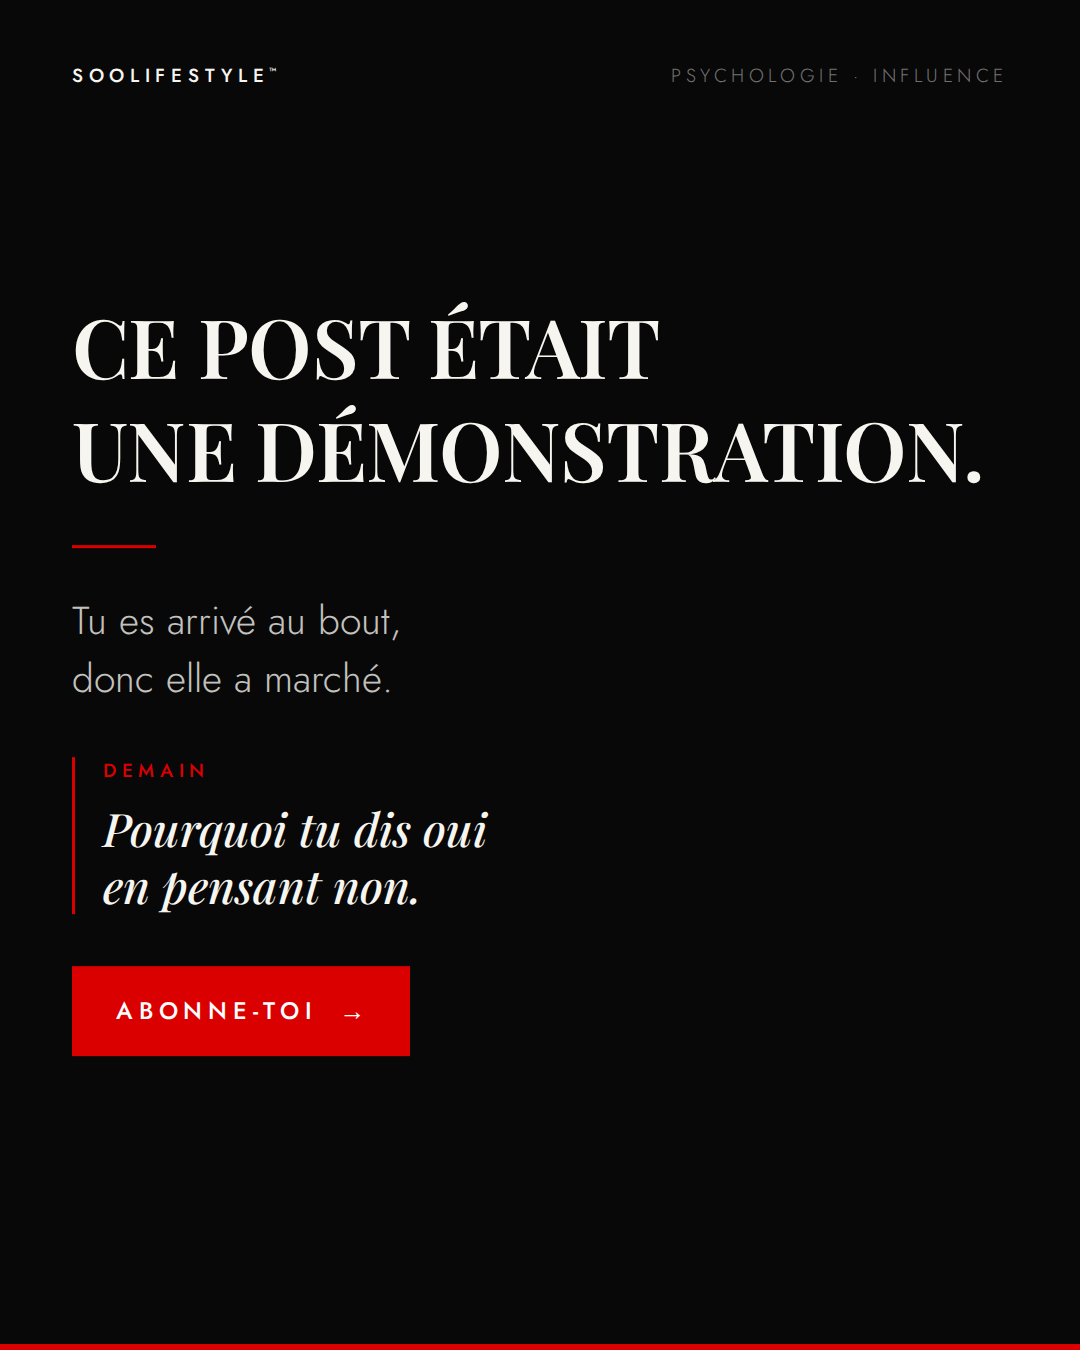
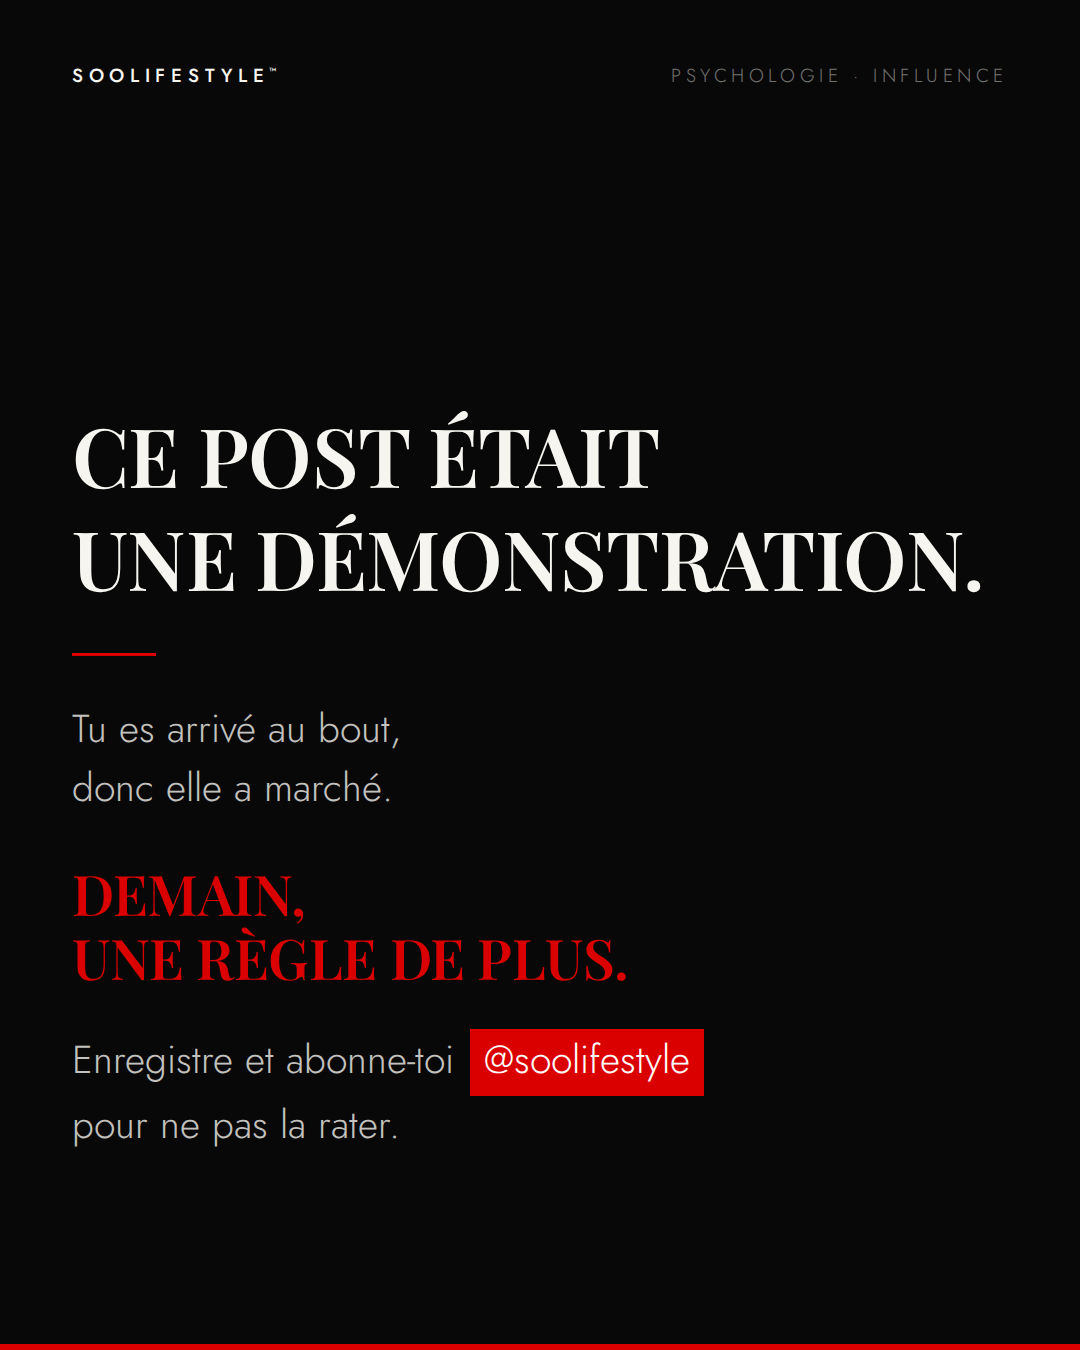
Interieur : horizon fixe, chiffre fantome, nouveau CTA
Forme. Trois defauts corriges :
- le bloc flottait au milieu avec du vide dessus et dessous. Il pose
  maintenant sur une ligne d'horizon identique d'une slide a l'autre :
  quand on swipe, le texte ne saute plus.
- l'interieur n'avait aucun ancrage a lui. Le haut, qui etait vide,
  porte le numero du mecanisme en filet rouge, coupe par le bord droit.
  La couverture a le debord, l'interieur a le chiffre.
- le chiffre est cale au-dessus du bloc, jamais sous le texte.

Slide finale : bloc DEMAIN retire, bouton retire. Le CTA demande deux
gestes, enregistrer et s'abonner, un bouton n'en porte qu'un.
La promesse passe en capitales rouges, l'action suit avec @soolifestyle
surligne — seule masse rouge de la ligne.

Claude-Session: https://claude.ai/code/session_01NxfN7rJ7DAKtxmihPtfgqw

Changed region(s): [[0.0611, 0.2178, 0.8861, 0.84], [0.3972, 0.2178, 0.6111, 0.28], [0.0611, 0.2178, 0.1528, 0.28]]

diff --git a/instagram/carrousel-le-miroir/da.js b/instagram/carrousel-le-miroir/da.js
@@ -95,19 +95,20 @@ const CSS = `${FONTS}
            font-size:56px; line-height:1.14; letter-spacing:-.008em;
            color:var(--red); margin-top:44px; }
 
-  /* ── demain : la vraie raison de s'abonner ── */
-  .demain{ margin-top:48px; padding-left:28px; border-left:3px solid var(--red); }
-  .demain i{ display:block; font-style:normal; font-family:'Sans',sans-serif; font-weight:500;
-             font-size:19px; letter-spacing:.3em; text-transform:uppercase; color:var(--red);
-             margin-bottom:16px; }
-  .demain span{ font-family:'Display',Georgia,serif; font-weight:500; font-style:italic;
-                font-size:46px; line-height:1.24; }
+  /* ── le chiffre fantôme : l'ancrage de l'intérieur.
+        En filet, coupé par le bord droit. Il dit où on en est
+        sans rien prendre à la lecture. ── */
+  .ghost{ position:absolute; z-index:0; right:-58px; top:86px;
+          font-family:'Display',Georgia,serif; font-weight:600; font-size:404px;
+          line-height:.78; letter-spacing:-.04em;
+          color:transparent; -webkit-text-stroke:2px var(--red); opacity:.30; }
 
-  .cta{ display:inline-flex; align-items:center; gap:22px; background:var(--red);
-        color:#fff; padding:26px 44px; margin-top:52px;
-        font-family:'Sans',sans-serif; font-weight:500; font-size:24px;
-        letter-spacing:.24em; text-transform:uppercase; }
-  .cta span{ font-size:26px; letter-spacing:0; }
+  /* ── l'horizon : le bloc ne flotte plus, il pose ── */
+  .wrap.bas{ top:auto; bottom:196px; transform:none; }
+
+  /* ── le compte : l'arobase surligné, pas un bouton ── */
+  .at{ display:inline-block; background:var(--red); color:#fff;
+       padding:2px 14px 6px; margin:0 4px; }
 `;
 
 // Playfair capitales : une lettre avance d'environ 0,60 em.

diff --git a/instagram/carrousel-le-miroir/rythmes.js b/instagram/carrousel-le-miroir/rythmes.js
@@ -10,13 +10,14 @@
 const DA = require('./da');
 
 const label = (s) => `<div class="label"><em>&mdash;</em>${s.label}</div>`;
+const ghost = (n) => `<div class="ghost">${String(n).padStart(2, '0')}</div>`;
 const body = (s) =>
   (s.body || []).map((p) => `<div class="body">${p.join('<br>')}</div>`).join('');
 
-module.exports = {
+const R = {
   // on pose le mécanisme et on l'explique
   pose: (s) => `
-    <div class="wrap">
+    <div class="wrap bas">
       ${label(s)}
       <div class="title" style="font-size:${s.size}px">${DA.chipLines(s.lines, s.hi)}</div>
       <div class="hr"></div>
@@ -25,7 +26,7 @@ module.exports = {
 
   // la respiration. Une phrase, rien d'autre. On la lit sans effort, on swipe.
   claque: (s) => `
-    <div class="wrap">
+    <div class="wrap bas">
       ${label(s)}
       <div class="setup">${s.setup}</div>
       <div class="huge" style="font-size:${s.size}px">${DA.chipLines(s.lines, s.hi)}</div>
@@ -34,7 +35,7 @@ module.exports = {
 
   // on explique, puis la dernière phrase retourne la situation
   bascule: (s) => `
-    <div class="wrap">
+    <div class="wrap bas">
       ${label(s)}
       <div class="title" style="font-size:${s.size}px">${DA.chipLines(s.lines, s.hi)}</div>
       <div class="hr"></div>
@@ -42,3 +43,8 @@ module.exports = {
       <div class="payoff">${s.payoff.join('<br>')}</div>
     </div>`,
 };
+
+// Chaque rythme reçoit son numéro : le chiffre fantôme se pose derrière.
+module.exports = Object.fromEntries(
+  Object.entries(R).map(([nom, f]) => [nom, (s, n) => ghost(n) + f(s)])
+);

diff --git a/instagram/carrousel-le-miroir/build-carrousel.js b/instagram/carrousel-le-miroir/build-carrousel.js
@@ -18,7 +18,7 @@ const N = c.slides.length;
 /* ── une slide-mécanisme : son rythme, et la promesse de la suivante ── */
 const mechanism = (s, i) => `
   <div class="sl" id="s${i + 2}">
-    ${RYTHMES[s.rythme](s)}
+    ${RYTHMES[s.rythme](s, i + 1)}
     ${DA.furniture({
       tag: `<b>${i + 1}</b> / ${N}`,
       fill: DA.fill(i + 2, TOTAL),
@@ -30,12 +30,12 @@ const mechanism = (s, i) => `
       qui n'est pas « abonne-toi » mais ce qu'il y a demain ── */
 const outro = (o) => `
   <div class="sl dark" id="s${TOTAL}">
-    <div class="wrap">
+    <div class="wrap bas">
       <div class="title" style="font-size:${o.size}px">${DA.chipLines(o.lines, o.hi)}</div>
       <div class="hr"></div>
       ${o.body.map((p) => `<div class="body">${p.join('<br>')}</div>`).join('')}
-      <div class="demain"><i>${o.demain.label}</i><span>${o.demain.text}</span></div>
-      <div><span class="cta">${o.cta} <span>&rarr;</span></span></div>
+      <div class="payoff">${o.payoff.join('<br>')}</div>
+      <div class="body" style="margin-top:40px">${o.action.join('<br>')}</div>
     </div>
     ${DA.furniture({ tag: c.tag, fill: DA.TOKENS.w, next: false })}
   </div>`;

diff --git a/instagram/carrousel-le-miroir/SYSTEME.md b/instagram/carrousel-le-miroir/SYSTEME.md
@@ -124,7 +124,17 @@ par slide — le mécanisme même que le carrousel décrit.
 La dernière mécanique annonce `LA DÉMONSTRATION` : le CTA devient un rendez-vous,
 pas une interruption.
 
-### 3. L'accroche grossit
+### 3. Un horizon fixe et un chiffre fantôme
+
+Le bloc ne flotte plus au milieu : il **pose** sur une ligne d'horizon
+identique d'une slide à l'autre. Quand on swipe, le texte ne saute pas.
+
+Et le haut, qui était vide, porte le numéro du mécanisme en filet rouge,
+coupé par le bord droit. `01` → `05`. Il dit où on en est sans rien
+prendre à la lecture, et il donne à l'intérieur un ancrage à lui —
+la couverture a le débord, l'intérieur a le chiffre.
+
+### 4. L'accroche grossit
 
 74 px sur le premier mécanisme, 88 px sur le dernier. Le carrousel accélère
 sans le dire. Personne ne le remarque, tout le monde le sent.
@@ -147,13 +157,14 @@ Compteur `1/5` → `5/5` en haut à droite. La jauge du bas avance de `i/7`.
 **Fond noir profond `#080808`. Toujours.** Seule slide sombre du carrousel :
 la rupture signale la fin autant que le texte.
 
-Pas de surligneur — le bouton rouge doit être la seule masse rouge.
-Pas de flèche — il n'y a plus rien après.
+Pas de surligneur sur le titre. Pas de flèche — il n'y a plus rien après.
+Pas de bouton non plus : le CTA demande deux gestes, enregistrer et
+s'abonner, et un bouton n'en porte qu'un.
 
-Et surtout : **un bloc `DEMAIN`** qui annonce le sujet du prochain carrousel,
-en italique, derrière un filet rouge vertical. C'est lui qui fait l'abonnement,
-pas le bouton. « Abonne-toi » demande un service ; « demain, pourquoi tu dis oui
-en pensant non » donne une raison.
+La promesse passe en capitales rouges — `DEMAIN, UNE RÈGLE DE PLUS.` —
+et l'action suit en dessous, avec `@soolifestyle` surligné.
+Le compte est la seule masse rouge de la ligne : l'œil tombe dessus,
+c'est lui qu'on va chercher.
 
 En haut à droite, la catégorie revient à la place du compteur.
 Le carrousel se referme comme il s'est ouvert.
